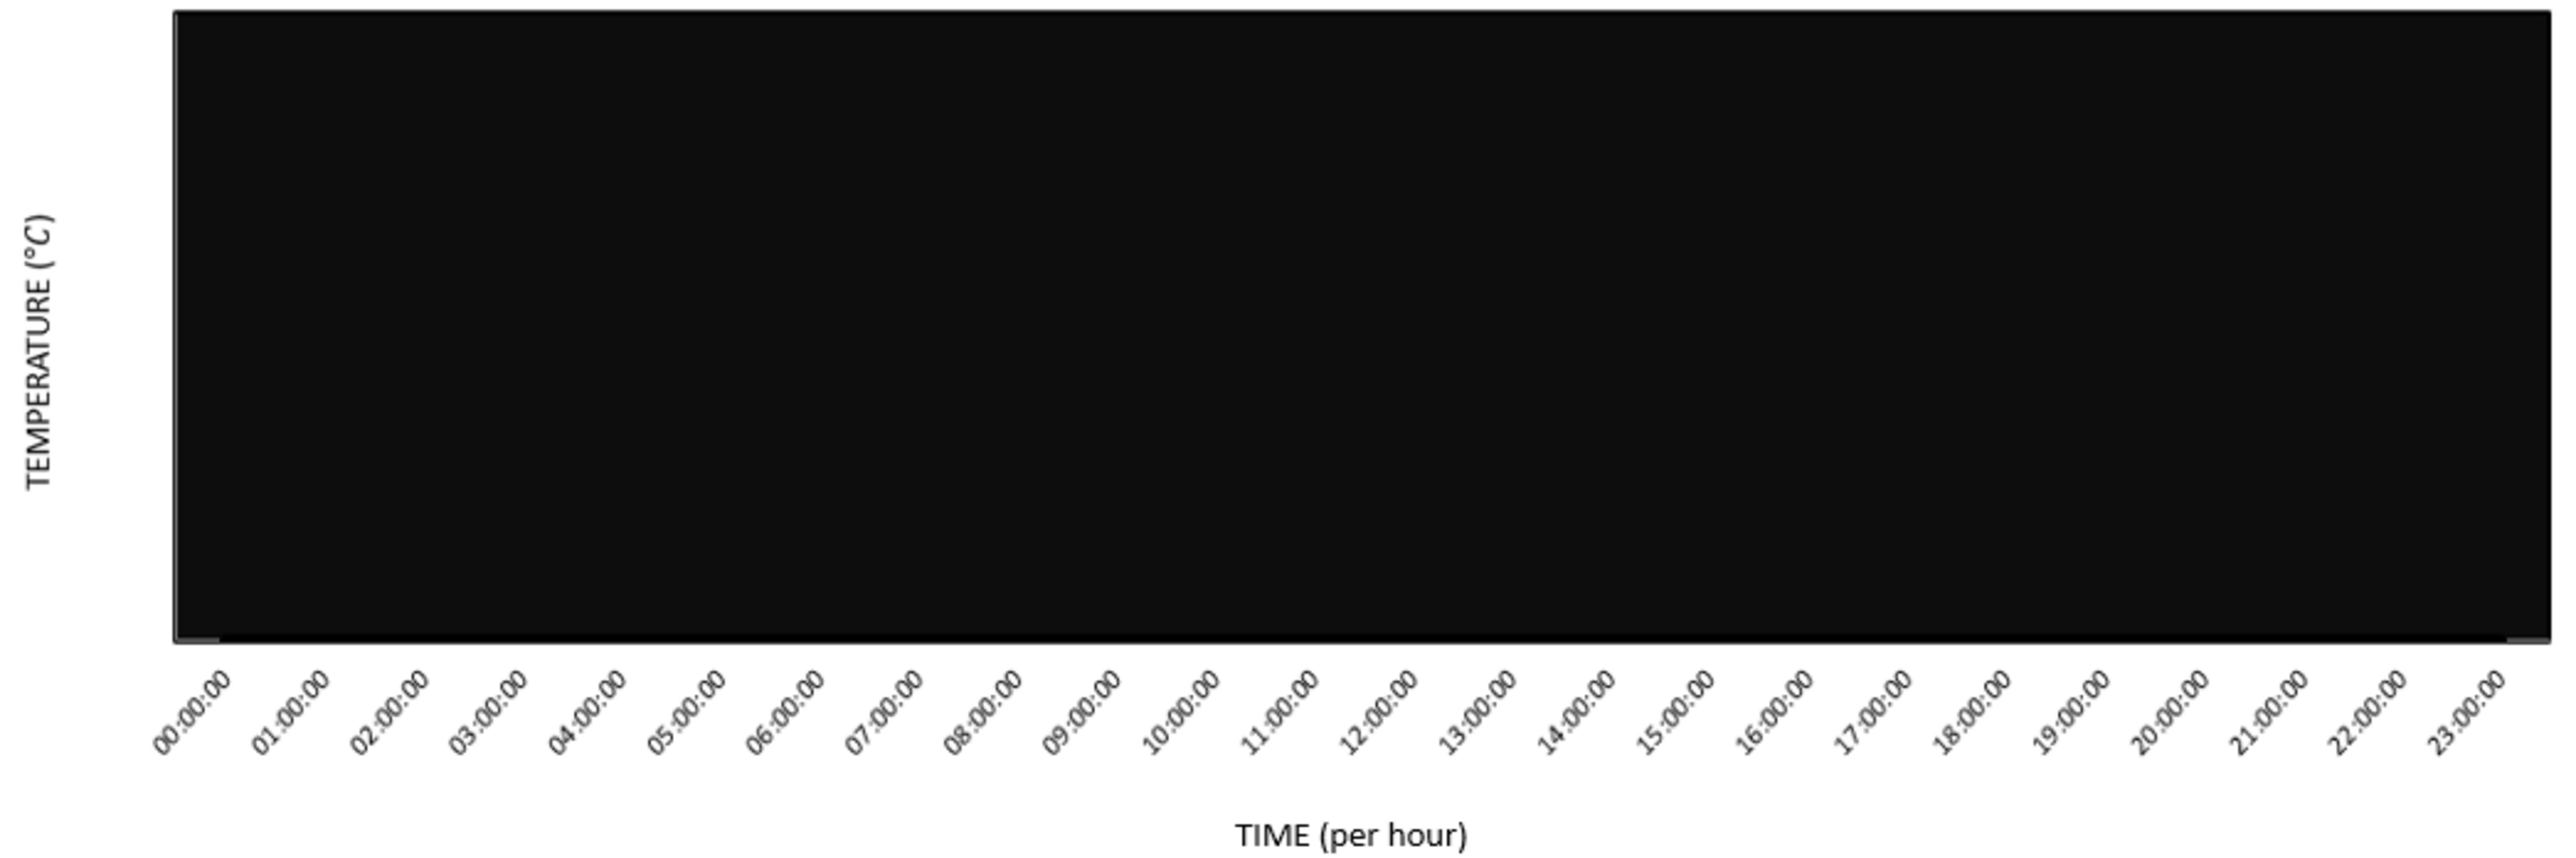
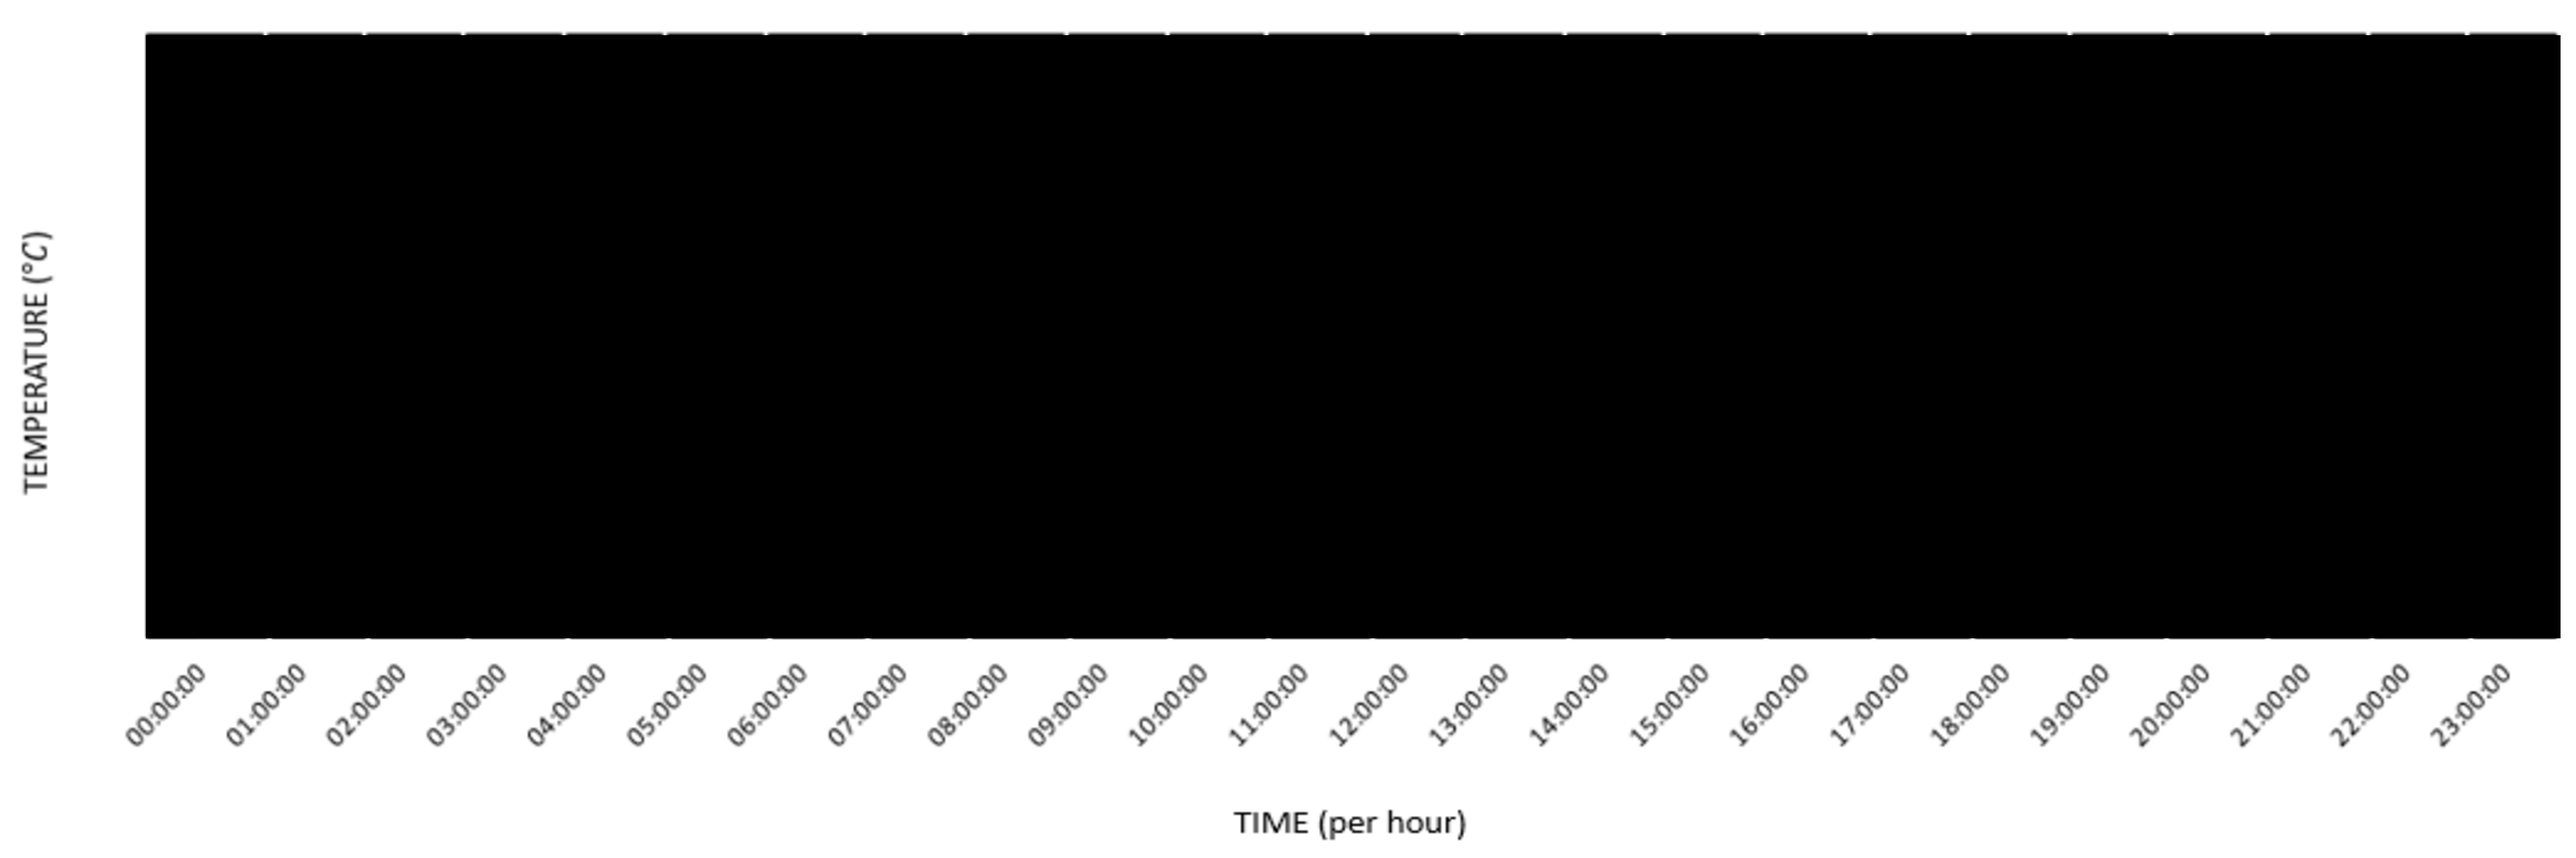
Add files via upload

Changed region(s): [[0.0, 0.0, 1.0, 0.868], [0.465, 0.93, 0.589, 0.992]]

diff --git a/main.py b/main.py
@@ -1870,6 +1870,9 @@ class GraphWindow(Screen): #3rd window
         with self.ids.temp_layout.canvas:
             Color(0, 0, 1, 0.1)  # Set color to blue (RGB values)
             self.rectangle = Rectangle(pos=self.ids.temp_layout.pos, size=self.ids.temp_layout.size)
+        with self.ids.temp_layout.canvas:
+            Color(0, 1, 0, 0.1)  # Set color to blue (RGB values)
+            self.rectangle = Rectangle(pos=self.ids.temp_layout.pos, size=self.ids.temp_layout.size)
 
             # Calculate line coordinates based on listX and listY
             listX = [1, 2, 3, 4, 5, 6, 7, 8, 9, 10, 11, 12, 13, 14, 15, 16, 17, 18, 19, 20, 21, 22, 23]
@@ -1884,7 +1887,7 @@ class GraphWindow(Screen): #3rd window
 
 
 
-            position_offset = (self.ids.temp_layout.width * (0.045), self.ids.temp_layout.height * 0.25)
+            position_offset = (self.ids.temp_layout.width * (0.0415), self.ids.temp_layout.height * 0.25)
 
             # Create a list of points by interleaving x and y coordinates
             points = []
